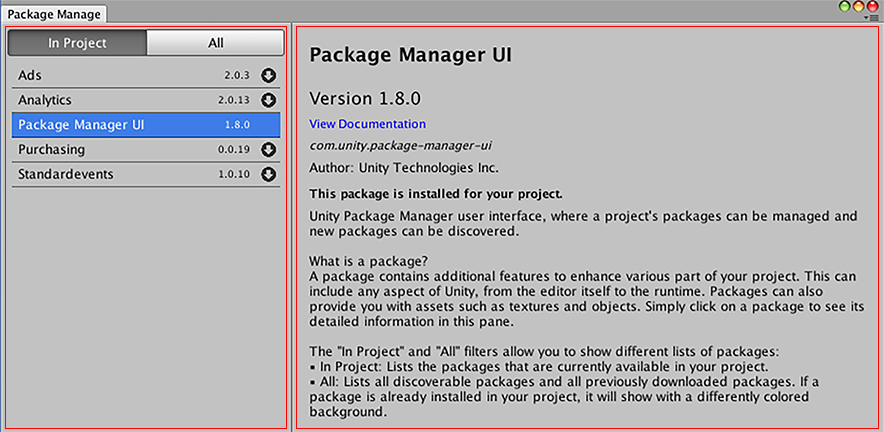
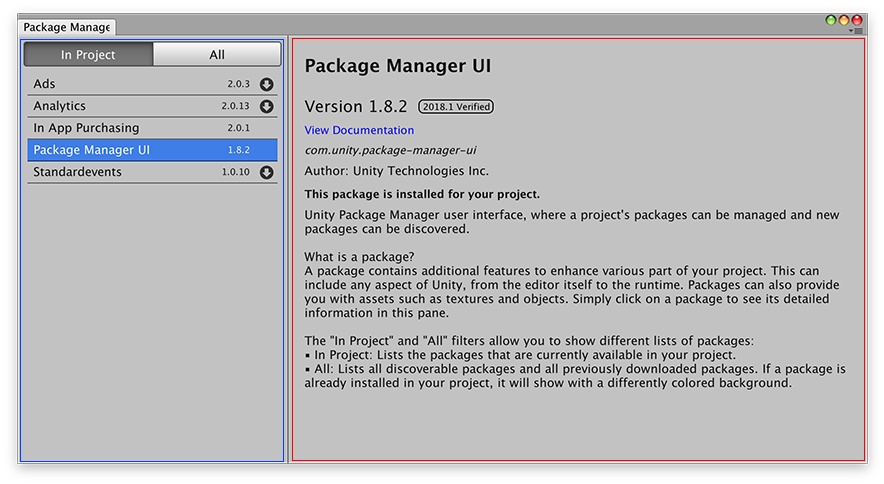
1.8.7 - 2018/04/26 @2018.1

diff --git a/package/Editor/Resources/Styles/_common.scss b/package/Editor/Resources/Styles/_common.scss
@@ -573,6 +573,7 @@ $spinner-normal-half-size: 8;
 			#detailPackageStatus {
 				flex: 1;
 				font-style: bold;
+				word-wrap: true;
 			}
 
 			#detailTag {
@@ -621,7 +622,7 @@ $spinner-normal-half-size: 8;
 				border-color: $package-tag-color;
 				text-color: $package-tag-color;
 
-				&.recommended {
+				&.verified {
 					border-color: $package-tag-recommended-color;
 					text-color: $package-tag-recommended-color;
 				}

diff --git a/package/Editor/Sources/UI/PackageList.cs b/package/Editor/Sources/UI/PackageList.cs
@@ -216,6 +216,7 @@ namespace UnityEditor.PackageManager.UI
         private static void Reload()
         {
             // Force a re-init to initial condition
+            PackageCollection.Instance.SetFilter(PackageFilter.Local, false);
             PackageCollection.Instance.UpdatePackageCollection(true);
         }
 

diff --git a/package/Documentation/package-manager-ui.md b/package/Documentation/package-manager-ui.md
@@ -1,7 +1,7 @@
-# Package Manager
-A package is a container that holds any combination of Assets, Shaders, Textures, plug-ins, icons, and scripts that enhance various parts of your project. Unity packages are newer, more tightly integrated versions of Asset Store packages, able to deliver a wide range of enhancements to Unity.
+# Unity Package Manager
+A package is a container that holds any combination of Assets, Shaders, Textures, plug-ins, icons, and scripts that enhance various parts of your project. Unity packages are newer, more tightly integrated versions of Asset Store packages, able to deliver a wide range of enhancements to Unity. 
 
-Use the Package Manager window to view which packages are available for installation or already installed in your project. In addition, you can use this window to [install](#PackManInstall), [remove](#PackManRemove), or [update](#PackManUpdate) packages for each project.
+Use the Unity Package Manager window (in Unity’s top menu: __Window__ > __Package Manager__) to view which packages are available for installation or already installed in your project. In addition, you can use this window to [install](#PackManInstall), [remove](#PackManRemove), or [update](#PackManUpdate) packages for each project.
 
 ![Package Manger window](Images/PackageManagerUI-Main.png)
 
@@ -34,27 +34,27 @@ These details include the following information:
  - (I) The link to open the package change log
 
 ### Version tags
-Some packages display special tags next to the version number. These tags convey special information about that version of the package.
+Some packages display tags next to the version number. These tags convey information about that version of the package. 
 
 ![Tagged version information](Images/PackageManagerUI-Tags.png)
 
-Package Manager uses the following values:
+The Package Manager uses the following values:
 
 | **Tag** | **Meaning** |
 |--|--|
-| `Verified` | This package has been verified by Unity's Quality Assurance team to work with a specific version of the Editor. |
-| `Preview` | This package is at an early stage of the release cycle and may not have been documented and fully validated by either the development team or Unity's Quality Assurance team. |
+| `verified` | Unity's Quality Assurance team has officially verified that this package works with a specific version of the Editor. |
+| `preview` | This package is at an early stage of the release cycle and may not have been documented and fully validated by either the development team or Unity's Quality Assurance team. |
 
 A Package without a tag is considered production quality.
 
 ### Finding more information
-You can find out more about a package by viewing the documentation.
+You can find out more about a package by viewing its documentation. 
 
 To access it, click the View Documentation link in the Details pane:
 
 ![View Documentation link](Images/PackageManagerUI-ViewDocs.png)
 
-The package documentation page opens.
+The package documentation page opens in your default browser.
 
 <a name="PackManOpen"></a>
 ## Accessing the Package Manager window
@@ -64,8 +64,8 @@ You can perform a variety of tasks through the Package Manager window:
  - [Remove an installed package](#PackManRemove)
  - [Update an installed package](#PackManUpdate)
 
- To open the Package Manager window, select **Window > Package Manager** from the main menu.
-
+ To open the Package Manager window, navigate to Unity's main menu and go to **Window > Package Manager**. 
+ 
 ![Window > Package Manager](Images/PackageManagerUI-Access.png)
 
 <a name="PackManInstall"></a>
@@ -87,41 +87,41 @@ To remove an installed package:
  3. Select the package you want to remove from the **Packages** list. The package information appears in the Details pane.
  4. Click the **Remove X.X.X** button. When the progress bar finishes, the package disappears from the list.
 
-**Notes:**
- - You can only remove packages which are not required by another package.
- - When you remove a package, any editor or runtime functionality which it implemented is no longer available.
+**Notes:** 
+ - You can only remove packages which are not required by another package. 
+ - When you remove a package, any Editor or run-time functionality which it implemented is no longer available.
 
 <a name="PackManUpdate"></a>
 ### Updating an installed package
 ![Update button](Images/PackageManagerUI-UpdateButton.png)
 
 You can update a package while in either the **In Project** or **All** mode:
- 1. Open the Project Manager window. Any packages that have updates available appear with an arrow indicator.
- 2. Select the package you want to update from the **Packages** list. The package information appears in the Details pane.
- 3. Click the **Update to X.X.X** button. When the progress bar finishes, the new package version information appears in the Details pane and any new functionality is available.
+ 1. Open the Project Manager window. An arrow indicator appears next to any packages that have updates available.
+ 2. Select the package you want to update from the **Packages** list. The package information appears in the Details pane. 
+ 3. Click the **Update to X.X.X** button. When the progress bar finishes, the new package version information appears in the Details pane, and any new functionality is immediately available. 
 
 ## Advanced package topics
-This section provides more advanced information about the package manifest file but you don't need to know anything about these topics to install, remove, and update packages.
+This section provides more advanced information about the package manifest file. You don't need to know anything about these topics to install, remove, and update packages.
 
-A Unity package contains a [package manifest file](#PackManManifestsPackage) in addition to the contents (Assets, Shaders, Textures, plug-ins, icons and scripts). The package manifest tells Unity how to display its information page in the Package Manager window and how to install the package in the project.
+In addition to its contents (Assets, Shaders, Textures, plug-ins, icons and scripts), a Unity package contains a [package manifest file](#PackManManifestsPackage). The package manifest tells Unity how to display its information page in the Package Manager window, and how to install the package in the project.
 
 ![Folder structure of a package](Images/PackageManagerUI-PackageStructure.png)
 
-In addition, there are several files that help manage the package deployment, including the tests, the samples, the license, the changelog, and the documentation.
+In addition, it contains several files that help manage the package deployment, including the tests, the samples, the license, the changelog, and the documentation.
 
 <a name="PackManManifests"></a>
 ### Manifests
-There are two types of manifest files: [project](#PackManManifestsProject) manifests (`manifest.json`), and [package](#PackManManifestsPackage) manifests (`package.json`). Both files use JSON (JavaScript Object Notation) syntax to communicate with Package Manager by describing which packages are available for each project and what each package contains.
+There are two types of manifest files: [project](#PackManManifestsProject) manifests (`manifest.json`), and [package](#PackManManifestsPackage) manifests (`package.json`). Both files use JSON (JavaScript Object Notation) syntax to communicate with the Package Manager, by describing which packages are available for each project, and what each package contains. 
 
 <a name="PackManManifestsProject"></a>
 #### Project manifests
-Project manifests (`manifest.json`) tell Package Manager which packages and versions are available to the project.
+Project manifests (`manifest.json`) tell the Package Manager which packages and versions are available to the project.
 
-The following value is supported:
+Project manifests support the following value:
 
 | Key | JSON Type | Description |
 |--|--|--|
-| `dependencies` | Object |List of packages for Package Manager to load. These are usually packages officially registered with Unity. |
+| `dependencies` | Object |List of packages for the Package Manager to load. These are usually packages officially registered with Unity. |
 
 
 Example of a `manifest.json` file:
@@ -138,20 +138,20 @@ Unity stores each project manifest in the `[your_project_root_folder]/Packages/m
 
 <a name="PackManManifestsPackage"></a>
 #### Package manifests
-Package Manager uses package manifests (`package.json`) to determine which version of the package to load and what information to display in the Package Manager window.
+The Package Manager uses package manifests (`package.json`) to determine which version of the package to load, and what information to display in the Package Manager window.
 
-The following values are supported:
+Package manifests support the following values:
 
 | Key | JSON Type | Description |
 |--|--|--|
-| `name` | String |Officially registered package name, following this naming convention: `"com.unity.[your package name]"`. For example, `"com.unity.resourcemanager"` |
-| `displayName` | String |Package name as it appears in the Package Manager window. For example, `Resource Manager"` |
-| `version` | String |Package version `"MAJOR.MINOR.PATCH"`. Unity packages follow the [Semantic Versioning](https://semver.org) system. For example, `"1.3.0"`. |
+| `name` | String |The officially registered package name, following this naming convention: `"com.unity.[your package name]"`. For example, `"com.unity.resourcemanager"` |
+| `displayName` | String |The package name as it appears in the Package Manager window. For example, `"Resource Manager"` |
+| `version` | String |The package version `"MAJOR.MINOR.PATCH"`. Unity packages follow the [Semantic Versioning](https://semver.org) system. For example, `"1.3.0"`. |
 | `unity` | String |The Unity version that supports this package. For example, `"2018.1"` indicates compatibility starting with Unity version 2018.1. |
-| `description` | String |Brief description of the package. This is the text that appears on the Details pane of the Package Manager window. Some special formatting character codes are supported, such as line breaks (`\n`) and bullets (`\u25AA`). |
-| `keywords` | Array of Strings |Keywords used for searching in the Package Manager window specified as a JSON array of strings. For example, `["Physics", "RigidBody", "Component"]`. |
-| `category` | String |Category of the package. For example, `"Forces"`. |
-| `dependencies` | Object |List of packages this package depends on, expressed as a JSON dictionary where the key is the package name and the value is the version number. Unity downloads all dependencies and loads them in the project with the package. |
+| `description` | String |A brief description of the package. This is the text that appears on the Details pane of the Package Manager window. Some special formatting character codes are supported, such as line breaks (`\n`) and bullets (`\u25AA`). |
+| `keywords` | Array of Strings |Keywords used for searching in the Package Manager window, specified as a JSON array of strings. For example, `["Physics", "RigidBody", "Component"]`. |
+| `category` | String |The category this packages is in. For example, `"Forces"`. |
+| `dependencies` | Object |A list of packages that this package depends on, expressed as a JSON dictionary where the key is the package name and the value is the version number. Unity downloads all dependencies and loads them into the project alongside this package. |
 
 Example of a `package.json` file:
 
@@ -174,31 +174,33 @@ Unity stores each package manifest in the `[your_package_root_folder]/package.js
 
 <a name="PackManRegistry"></a>
 ### The Package Registry
-Unity maintains a central registry of official packages that are available for distribution. When Unity loads, Package Manager communicates with the registry, checks the project manifest file, and displays the status of each available package in the Package Manager window.
+Unity maintains a central registry of official packages that are available for distribution. When Unity loads, the Package Manager communicates with the registry, checks the project manifest file, and displays the status of each available package in the Package Manager window.
 
-When you remove a package from the project, Package Manager updates the project manifest to exclude that package from the list in **In Project** mode but it is still available in **All** mode because it is still on the registry.
+When you remove a package from the project, the Package Manager updates the project manifest to exclude that package from the list in **In Project** mode but it is still available in **All** mode because it is still on the registry.
 
-When you install or update a package, Package Manager downloads the package from the registry.
+When you install or update a package, the Package Manager downloads the package from the registry.
 
 
 # Technical details
 
 ## Requirements
 
-This version of Package Manager is compatible with the following versions of the Unity Editor:
+This version of Unity Package Manager is compatible with the following versions of the Unity Editor:
 
-* 2018.1
+* 2018.1 and later (recommended)
 
 ## Known limitations
 
-Package Manager includes the following known limitations:
+The Package Manager includes the following known limitations:
 
 * If you manually edit the `manifest.json` file, the Package Manager window doesn't refresh the list of packages. You need to either [re-open the window](#PackManOpen) or [toggle between In Project and All modes](#PackManLists) to force an update.
 
 ## Documentation revision history
 |Date|Reason|
 |---|---|
-|Feb 19, 2018|Documentation updated. Matches package version 1.8.2.|
+|Mar 13, 2018|Documentation updated (final edits). Matches package version 1.8.2.|
+|Mar 2, 2018|Documentation updated. Matches package version 1.8.2.|
+|Feb 19, 2018|Documentation updated. Matches package version 1.8.0.|
 |Feb 8, 2018|Documentation updated. Matches package version 1.7.0.|
 |Feb 6, 2018|Documentation cleaned up. Matches package version 1.6.1.|
 |Jan 31, 2018|Documentation updated (developmental review)|

diff --git a/package/CHANGELOG.md b/package/CHANGELOG.md
@@ -4,6 +4,9 @@ All notable changes to this package will be documented in this file.
 The format is based on [Keep a Changelog](http://keepachangelog.com/en/1.0.0/)
 and this project adheres to [Semantic Versioning](http://semver.org/spec/v2.0.0.html).
 
+## [1.8.7] - 2018-03-27
+- Fixed reloading with all filter selected
+
 ## [1.8.6] - 2018-03-11
 - Fix unit tests
 
